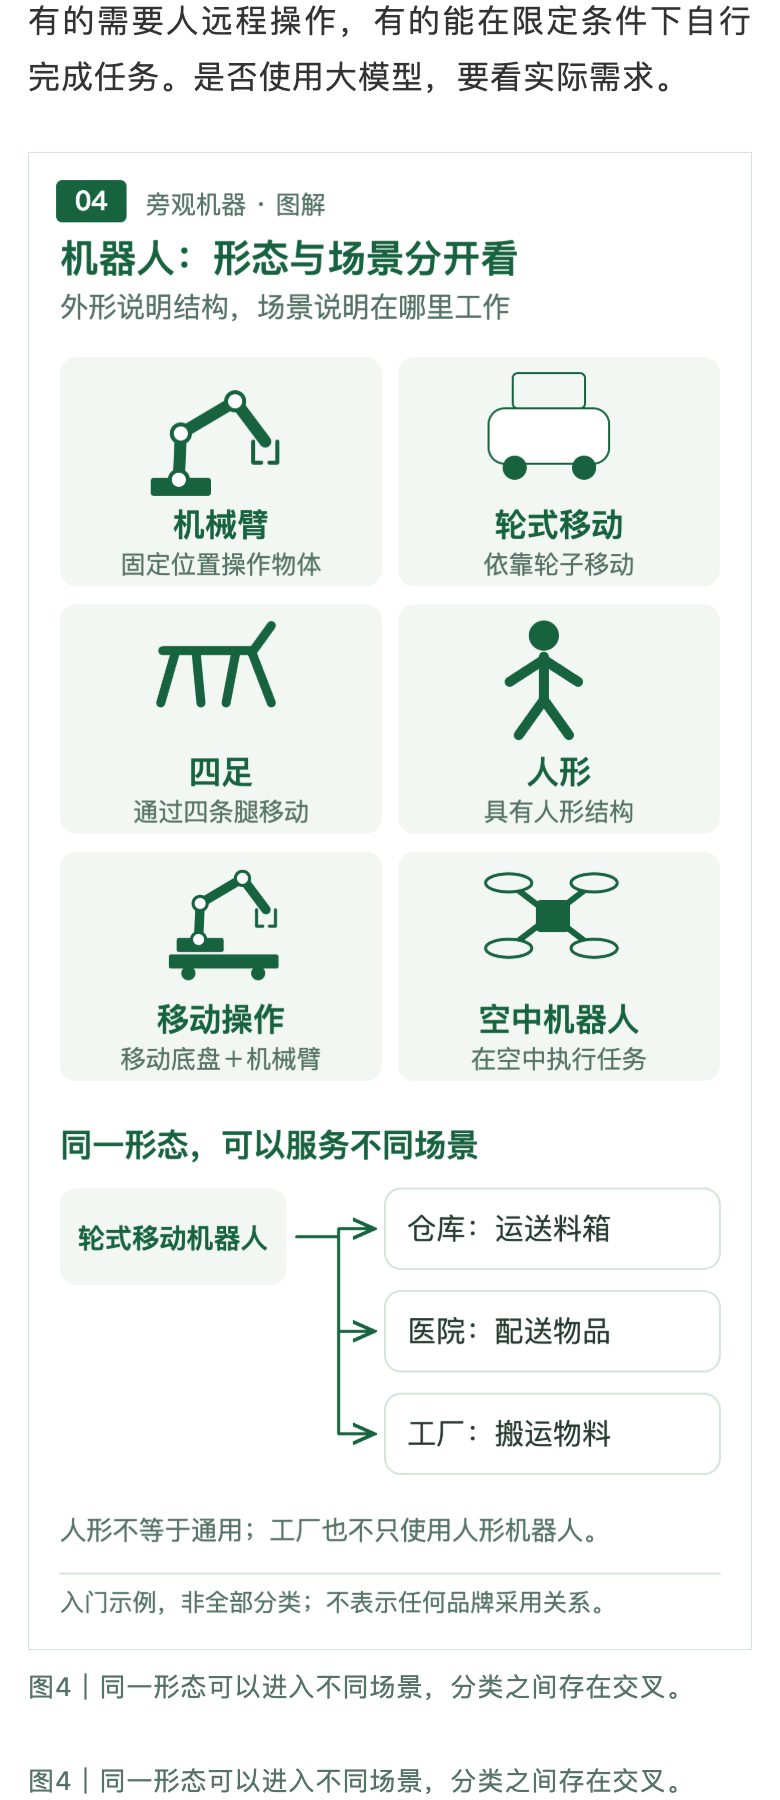
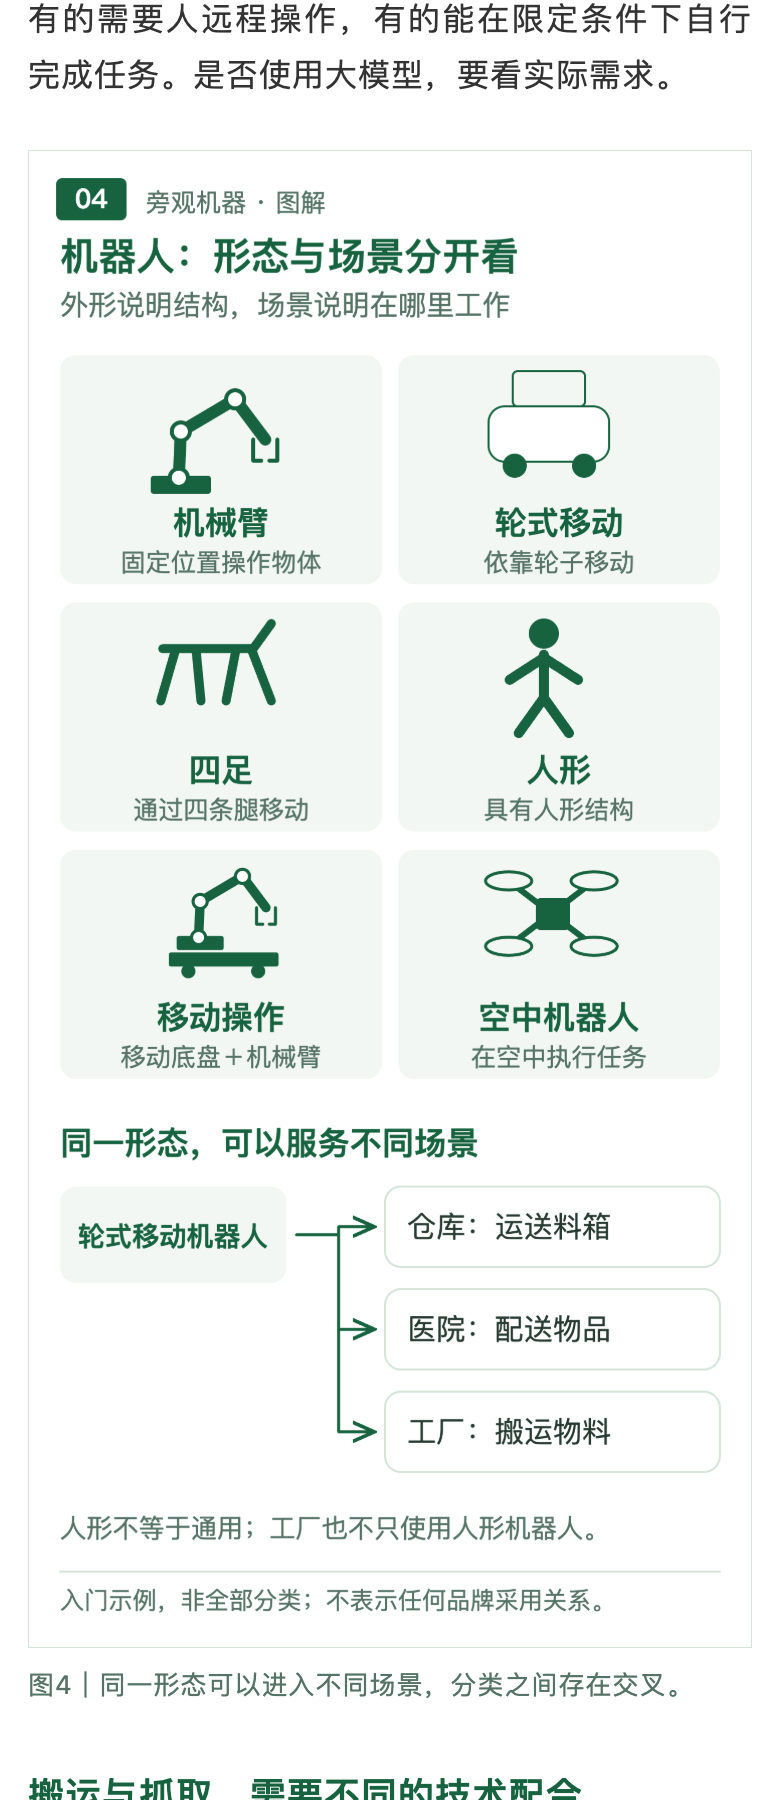
fix: remove duplicate image captions from illustrated article

diff --git a/articles/2026-09-nvidia-physical-ai/article-v3-body.html b/articles/2026-09-nvidia-physical-ai/article-v3-body.html
@@ -11,10 +11,8 @@
 <p style="margin:18px 0;line-height:1.75;color:#333333;letter-spacing:0.5px;text-align:justify;">以跟随前车减速为例，车辆首先通过摄像头、雷达等传感器获取道路信息。传感器是测量外部环境或自身状态的设备；摄像头提供图像，雷达帮助测量距离和运动，部分车型还采用激光雷达获取空间信息。</p>
 <p style="margin:18px 0;line-height:1.75;color:#333333;letter-spacing:0.5px;text-align:justify;">软件随后识别前车、估计距离与速度变化，再决定需要怎样减速。识别环境称为“感知”，安排接下来的行动称为“规划”。最后，控制系统把结果转换成车辆能够执行的指令，并根据实际运动不断调整。</p>
 <img src="assets/guide-v1/01-braking.png" alt="图1｜先看辅助减速的完整过程。" style="display:block;width:100%;max-width:100%;height:auto;margin:24px auto 8px;"/><p style="margin:8px 0 26px;font-size:13px;line-height:1.65;color:#557366;text-align:left;">图1｜先看辅助减速的完整过程。</p>
-<p style="margin:8px 0 26px;font-size:13px;line-height:1.65;color:#557366;text-align:left;">图1｜先看辅助减速的完整过程。</p>
 <p style="margin:18px 0;line-height:1.75;color:#333333;letter-spacing:0.5px;text-align:justify;">这一过程解释了为什么“用了什么芯片”只是问题的一部分。芯片承担计算，软件处理任务，车辆的机械和电子系统完成动作，任何一环都会影响结果。</p>
 <img src="assets/guide-v1/02-car-layers.png" alt="图2｜硬件、软件和车辆执行，是不同的组成部分。" style="display:block;width:100%;max-width:100%;height:auto;margin:24px auto 8px;"/><p style="margin:8px 0 26px;font-size:13px;line-height:1.65;color:#557366;text-align:left;">图2｜硬件、软件和车辆执行，是不同的组成部分。</p>
-<p style="margin:8px 0 26px;font-size:13px;line-height:1.65;color:#557366;text-align:left;">图2｜硬件、软件和车辆执行，是不同的组成部分。</p>
 <h3 style="font-size:18px;font-weight:650;color:#17633F;margin:30px 0 14px;line-height:1.6;letter-spacing:0.5px;">车企选择不同的技术组合</h3>
 <p style="margin:18px 0;line-height:1.75;color:#333333;letter-spacing:0.5px;text-align:justify;">在这套分工中，车企可以自研，也可以采购或联合开发，选择并不局限于整套购买。</p>
 <p style="margin:18px 0;line-height:1.75;color:#333333;letter-spacing:0.5px;text-align:justify;">特斯拉官方介绍了自行设计的车载AI计算机与推理芯片。问界M8采用的华为乾崑ADS，则是驾驶辅助系统方案的名称。比亚迪在2023年发布的公告中，明确介绍了扩大英伟达DRIVE Orin的使用范围。<sup style="font-size:11px;color:#557366;">[4]</sup><sup style="font-size:11px;color:#557366;">[5]</sup><sup style="font-size:11px;color:#557366;">[6]</sup></p>
@@ -33,7 +31,6 @@
 <p style="margin:18px 0;line-height:1.75;color:#333333;letter-spacing:0.5px;text-align:justify;">因此，训练效率与车内响应速度不能混为一谈。模型在服务器上表现良好，还要验证移到车载硬件后，能否在需要的时间内给出结果。</p>
 <p style="margin:18px 0;line-height:1.75;color:#333333;letter-spacing:0.5px;text-align:justify;">仿真帮助团队重复检查这些问题。它用计算机模拟交通环境和系统反应，可以改变车辆位置、光照等条件，也可以连接真实车载计算机进行测试。之后仍需要结合封闭场地和实际道路验证；模拟环境不能覆盖全部现实情况。<sup style="font-size:11px;color:#557366;">[11]</sup></p>
 <img src="assets/guide-v1/03-development.png" alt="图3｜开发不是一次完成，测试结果会带来下一轮修改。" style="display:block;width:100%;max-width:100%;height:auto;margin:24px auto 8px;"/><p style="margin:8px 0 26px;font-size:13px;line-height:1.65;color:#557366;text-align:left;">图3｜开发不是一次完成，测试结果会带来下一轮修改。</p>
-<p style="margin:8px 0 26px;font-size:13px;line-height:1.65;color:#557366;text-align:left;">图3｜开发不是一次完成，测试结果会带来下一轮修改。</p>
 <p style="margin:18px 0;line-height:1.75;color:#333333;letter-spacing:0.5px;text-align:justify;">英伟达的汽车开发产品也延伸到这一侧，包括仿真和Alpamayo等模型资源。它们可以参与研发，但模型发布不等于某款车已经搭载，更不意味着下载后就获得完整驾驶系统。<sup style="font-size:11px;color:#557366;">[12]</sup></p>
 <p style="margin:18px 0;line-height:1.75;color:#333333;letter-spacing:0.5px;text-align:justify;">软件投入使用后，还要持续管理版本、调查异常和验证更新。OTA指通过无线网络更新软件，能够改进功能，但不能让已有硬件的能力无限增长。</p>
 <p style="margin:0;"><h2 style="font-size:20px;font-weight:700;color:#17633F;margin:38px 0 18px;line-height:1.55;letter-spacing:0.5px;">机器人：先看任务，再看形态</h2></p>
@@ -43,14 +40,12 @@
 <p style="margin:18px 0;line-height:1.75;color:#333333;letter-spacing:0.5px;text-align:justify;">这些分类可以交叉。人形机器人描述外形，家务机器人描述用途；一台轮式机器人可以在医院配送，也可以在工厂搬运。“通用”讨论的是能适应多大范围的任务，跑步、跳舞则展示动作能力，都不能直接代表全部工作能力。</p>
 <p style="margin:18px 0;line-height:1.75;color:#333333;letter-spacing:0.5px;text-align:justify;">机器人也不一定高度自主。有的执行预设程序，有的需要人远程操作，有的能在限定条件下自行完成任务。是否使用大模型，要看实际需求。</p>
 <img src="assets/guide-v1/04-robot-map.png" alt="图4｜同一形态可以进入不同场景，分类之间存在交叉。" style="display:block;width:100%;max-width:100%;height:auto;margin:24px auto 8px;"/><p style="margin:8px 0 26px;font-size:13px;line-height:1.65;color:#557366;text-align:left;">图4｜同一形态可以进入不同场景，分类之间存在交叉。</p>
-<p style="margin:8px 0 26px;font-size:13px;line-height:1.65;color:#557366;text-align:left;">图4｜同一形态可以进入不同场景，分类之间存在交叉。</p>
 <h3 style="font-size:18px;font-weight:650;color:#17633F;margin:30px 0 14px;line-height:1.6;letter-spacing:0.5px;">搬运与抓取，需要不同的技术配合</h3>
 <p style="margin:18px 0;line-height:1.75;color:#333333;letter-spacing:0.5px;text-align:justify;">仓库搬运是一个直观入口。机器人要知道自己在哪里、货物在哪里、路上有没有障碍，还要接收任务并到达指定位置。极智嘉的仓储方案展示了货物处理与移动机器人的实际用途；这一场景本身并不意味着采用某一家芯片或软件。<sup style="font-size:11px;color:#557366;">[14]</sup></p>
 <p style="margin:18px 0;line-height:1.75;color:#333333;letter-spacing:0.5px;text-align:justify;">如果任务进一步变成“把零件从料箱取出，放到工作台”，系统就要增加操作能力。</p>
 <p style="margin:18px 0;line-height:1.75;color:#333333;letter-spacing:0.5px;text-align:justify;">机械臂需要关节和电机，末端安装夹爪、吸盘等接触物品的工具，这些工具称为末端执行器。摄像头帮助识别零件，关节传感器反馈位置，力或触觉传感器可以帮助判断接触情况。</p>
 <p style="margin:18px 0;line-height:1.75;color:#333333;letter-spacing:0.5px;text-align:justify;">软件据此计算可行的动作路径，再由控制系统不断调整关节运动。前者称为运动规划，后者负责让实际动作接近期望结果。模型可以参与，但传统数学方法与控制程序同样重要。</p>
 <img src="assets/guide-v1/05-pick-place.png" alt="图5｜用一次抓取看清机械、感知与控制的配合。" style="display:block;width:100%;max-width:100%;height:auto;margin:24px auto 8px;"/><p style="margin:8px 0 26px;font-size:13px;line-height:1.65;color:#557366;text-align:left;">图5｜用一次抓取看清机械、感知与控制的配合。</p>
-<p style="margin:8px 0 26px;font-size:13px;line-height:1.65;color:#557366;text-align:left;">图5｜用一次抓取看清机械、感知与控制的配合。</p>
 <p style="margin:18px 0;line-height:1.75;color:#333333;letter-spacing:0.5px;text-align:justify;">这意味着，换一颗更强的芯片不一定能解决抓取问题。夹爪是否适合物体，机械是否稳定，感知和控制是否准确，都需要一起判断。</p>
 <p style="margin:18px 0;line-height:1.75;color:#333333;letter-spacing:0.5px;text-align:justify;">整机厂商通常要把这些能力组合成产品；供应商提供部件和软件；集成商再帮助设备接入现场。工厂和仓库由此成为机器人的使用场景，而不是与机器人并列的另一种产品。</p>
 <h3 style="font-size:18px;font-weight:650;color:#17633F;margin:30px 0 14px;line-height:1.6;letter-spacing:0.5px;">英伟达既在设备里，也在开发工具里</h3>
@@ -64,7 +59,6 @@
 <p style="margin:18px 0;line-height:1.75;color:#333333;letter-spacing:0.5px;text-align:justify;">比亚迪电子的合作发生在这一层。英伟达2024年公告介绍，其使用Isaac Sim和Isaac Perceptor开发自主移动机器人。Perceptor是面向移动机器人感知的参考开发流程，帮助利用摄像头信息理解周围空间。这是工具采用记录，不应被扩大为全部工厂已完成部署。<sup style="font-size:11px;color:#557366;">[2]</sup></p>
 <p style="margin:18px 0;line-height:1.75;color:#333333;letter-spacing:0.5px;text-align:justify;">宇树的官方Isaac Lab仿真项目也提供取放等模拟任务，支持数据收集和模型验证。它说明研发如何开展，但不能用模拟任务清单推断所有量产机器人的能力，更不能据此猜测机载芯片型号。<sup style="font-size:11px;color:#557366;">[3]</sup></p>
 <img src="assets/guide-v1/06-product-roles.png" alt="图6｜把产品名称放回已经认识的系统位置。" style="display:block;width:100%;max-width:100%;height:auto;margin:24px auto 8px;"/><p style="margin:8px 0 26px;font-size:13px;line-height:1.65;color:#557366;text-align:left;">图6｜把产品名称放回已经认识的系统位置。</p>
-<p style="margin:8px 0 26px;font-size:13px;line-height:1.65;color:#557366;text-align:left;">图6｜把产品名称放回已经认识的系统位置。</p>
 <h3 style="font-size:18px;font-weight:650;color:#17633F;margin:30px 0 14px;line-height:1.6;letter-spacing:0.5px;">从实验动作到持续工作</h3>
 <p style="margin:18px 0;line-height:1.75;color:#333333;letter-spacing:0.5px;text-align:justify;">开发一项取放能力，首先要确定物品材质、重量、摆放方式和操作速度。这些条件会影响机械和软件选择。</p>
 <p style="margin:18px 0;line-height:1.75;color:#333333;letter-spacing:0.5px;text-align:justify;">零件位置固定时，预先编程可能就能完成工作；面对杂乱物体，则可能需要更复杂的识别与规划。若采用学习方法，可以让模型从人的示范中学习，这称为模仿学习；也可以让它尝试动作、根据结果调整策略，称为强化学习。</p>

diff --git a/articles/2026-09-nvidia-physical-ai/article-v3.html b/articles/2026-09-nvidia-physical-ai/article-v3.html
@@ -11,10 +11,8 @@
 <p style="margin:18px 0;line-height:1.75;color:#333333;letter-spacing:0.5px;text-align:justify;">以跟随前车减速为例，车辆首先通过摄像头、雷达等传感器获取道路信息。传感器是测量外部环境或自身状态的设备；摄像头提供图像，雷达帮助测量距离和运动，部分车型还采用激光雷达获取空间信息。</p>
 <p style="margin:18px 0;line-height:1.75;color:#333333;letter-spacing:0.5px;text-align:justify;">软件随后识别前车、估计距离与速度变化，再决定需要怎样减速。识别环境称为“感知”，安排接下来的行动称为“规划”。最后，控制系统把结果转换成车辆能够执行的指令，并根据实际运动不断调整。</p>
 <img src="assets/guide-v1/01-braking.png" alt="图1｜先看辅助减速的完整过程。" style="display:block;width:100%;max-width:100%;height:auto;margin:24px auto 8px;"/><p style="margin:8px 0 26px;font-size:13px;line-height:1.65;color:#557366;text-align:left;">图1｜先看辅助减速的完整过程。</p>
-<p style="margin:8px 0 26px;font-size:13px;line-height:1.65;color:#557366;text-align:left;">图1｜先看辅助减速的完整过程。</p>
 <p style="margin:18px 0;line-height:1.75;color:#333333;letter-spacing:0.5px;text-align:justify;">这一过程解释了为什么“用了什么芯片”只是问题的一部分。芯片承担计算，软件处理任务，车辆的机械和电子系统完成动作，任何一环都会影响结果。</p>
 <img src="assets/guide-v1/02-car-layers.png" alt="图2｜硬件、软件和车辆执行，是不同的组成部分。" style="display:block;width:100%;max-width:100%;height:auto;margin:24px auto 8px;"/><p style="margin:8px 0 26px;font-size:13px;line-height:1.65;color:#557366;text-align:left;">图2｜硬件、软件和车辆执行，是不同的组成部分。</p>
-<p style="margin:8px 0 26px;font-size:13px;line-height:1.65;color:#557366;text-align:left;">图2｜硬件、软件和车辆执行，是不同的组成部分。</p>
 <h3 style="font-size:18px;font-weight:650;color:#17633F;margin:30px 0 14px;line-height:1.6;letter-spacing:0.5px;">车企选择不同的技术组合</h3>
 <p style="margin:18px 0;line-height:1.75;color:#333333;letter-spacing:0.5px;text-align:justify;">在这套分工中，车企可以自研，也可以采购或联合开发，选择并不局限于整套购买。</p>
 <p style="margin:18px 0;line-height:1.75;color:#333333;letter-spacing:0.5px;text-align:justify;">特斯拉官方介绍了自行设计的车载AI计算机与推理芯片。问界M8采用的华为乾崑ADS，则是驾驶辅助系统方案的名称。比亚迪在2023年发布的公告中，明确介绍了扩大英伟达DRIVE Orin的使用范围。<sup style="font-size:11px;color:#557366;">[4]</sup><sup style="font-size:11px;color:#557366;">[5]</sup><sup style="font-size:11px;color:#557366;">[6]</sup></p>
@@ -33,7 +31,6 @@
 <p style="margin:18px 0;line-height:1.75;color:#333333;letter-spacing:0.5px;text-align:justify;">因此，训练效率与车内响应速度不能混为一谈。模型在服务器上表现良好，还要验证移到车载硬件后，能否在需要的时间内给出结果。</p>
 <p style="margin:18px 0;line-height:1.75;color:#333333;letter-spacing:0.5px;text-align:justify;">仿真帮助团队重复检查这些问题。它用计算机模拟交通环境和系统反应，可以改变车辆位置、光照等条件，也可以连接真实车载计算机进行测试。之后仍需要结合封闭场地和实际道路验证；模拟环境不能覆盖全部现实情况。<sup style="font-size:11px;color:#557366;">[11]</sup></p>
 <img src="assets/guide-v1/03-development.png" alt="图3｜开发不是一次完成，测试结果会带来下一轮修改。" style="display:block;width:100%;max-width:100%;height:auto;margin:24px auto 8px;"/><p style="margin:8px 0 26px;font-size:13px;line-height:1.65;color:#557366;text-align:left;">图3｜开发不是一次完成，测试结果会带来下一轮修改。</p>
-<p style="margin:8px 0 26px;font-size:13px;line-height:1.65;color:#557366;text-align:left;">图3｜开发不是一次完成，测试结果会带来下一轮修改。</p>
 <p style="margin:18px 0;line-height:1.75;color:#333333;letter-spacing:0.5px;text-align:justify;">英伟达的汽车开发产品也延伸到这一侧，包括仿真和Alpamayo等模型资源。它们可以参与研发，但模型发布不等于某款车已经搭载，更不意味着下载后就获得完整驾驶系统。<sup style="font-size:11px;color:#557366;">[12]</sup></p>
 <p style="margin:18px 0;line-height:1.75;color:#333333;letter-spacing:0.5px;text-align:justify;">软件投入使用后，还要持续管理版本、调查异常和验证更新。OTA指通过无线网络更新软件，能够改进功能，但不能让已有硬件的能力无限增长。</p>
 <p style="margin:0;"><h2 style="font-size:20px;font-weight:700;color:#17633F;margin:38px 0 18px;line-height:1.55;letter-spacing:0.5px;">机器人：先看任务，再看形态</h2></p>
@@ -43,14 +40,12 @@
 <p style="margin:18px 0;line-height:1.75;color:#333333;letter-spacing:0.5px;text-align:justify;">这些分类可以交叉。人形机器人描述外形，家务机器人描述用途；一台轮式机器人可以在医院配送，也可以在工厂搬运。“通用”讨论的是能适应多大范围的任务，跑步、跳舞则展示动作能力，都不能直接代表全部工作能力。</p>
 <p style="margin:18px 0;line-height:1.75;color:#333333;letter-spacing:0.5px;text-align:justify;">机器人也不一定高度自主。有的执行预设程序，有的需要人远程操作，有的能在限定条件下自行完成任务。是否使用大模型，要看实际需求。</p>
 <img src="assets/guide-v1/04-robot-map.png" alt="图4｜同一形态可以进入不同场景，分类之间存在交叉。" style="display:block;width:100%;max-width:100%;height:auto;margin:24px auto 8px;"/><p style="margin:8px 0 26px;font-size:13px;line-height:1.65;color:#557366;text-align:left;">图4｜同一形态可以进入不同场景，分类之间存在交叉。</p>
-<p style="margin:8px 0 26px;font-size:13px;line-height:1.65;color:#557366;text-align:left;">图4｜同一形态可以进入不同场景，分类之间存在交叉。</p>
 <h3 style="font-size:18px;font-weight:650;color:#17633F;margin:30px 0 14px;line-height:1.6;letter-spacing:0.5px;">搬运与抓取，需要不同的技术配合</h3>
 <p style="margin:18px 0;line-height:1.75;color:#333333;letter-spacing:0.5px;text-align:justify;">仓库搬运是一个直观入口。机器人要知道自己在哪里、货物在哪里、路上有没有障碍，还要接收任务并到达指定位置。极智嘉的仓储方案展示了货物处理与移动机器人的实际用途；这一场景本身并不意味着采用某一家芯片或软件。<sup style="font-size:11px;color:#557366;">[14]</sup></p>
 <p style="margin:18px 0;line-height:1.75;color:#333333;letter-spacing:0.5px;text-align:justify;">如果任务进一步变成“把零件从料箱取出，放到工作台”，系统就要增加操作能力。</p>
 <p style="margin:18px 0;line-height:1.75;color:#333333;letter-spacing:0.5px;text-align:justify;">机械臂需要关节和电机，末端安装夹爪、吸盘等接触物品的工具，这些工具称为末端执行器。摄像头帮助识别零件，关节传感器反馈位置，力或触觉传感器可以帮助判断接触情况。</p>
 <p style="margin:18px 0;line-height:1.75;color:#333333;letter-spacing:0.5px;text-align:justify;">软件据此计算可行的动作路径，再由控制系统不断调整关节运动。前者称为运动规划，后者负责让实际动作接近期望结果。模型可以参与，但传统数学方法与控制程序同样重要。</p>
 <img src="assets/guide-v1/05-pick-place.png" alt="图5｜用一次抓取看清机械、感知与控制的配合。" style="display:block;width:100%;max-width:100%;height:auto;margin:24px auto 8px;"/><p style="margin:8px 0 26px;font-size:13px;line-height:1.65;color:#557366;text-align:left;">图5｜用一次抓取看清机械、感知与控制的配合。</p>
-<p style="margin:8px 0 26px;font-size:13px;line-height:1.65;color:#557366;text-align:left;">图5｜用一次抓取看清机械、感知与控制的配合。</p>
 <p style="margin:18px 0;line-height:1.75;color:#333333;letter-spacing:0.5px;text-align:justify;">这意味着，换一颗更强的芯片不一定能解决抓取问题。夹爪是否适合物体，机械是否稳定，感知和控制是否准确，都需要一起判断。</p>
 <p style="margin:18px 0;line-height:1.75;color:#333333;letter-spacing:0.5px;text-align:justify;">整机厂商通常要把这些能力组合成产品；供应商提供部件和软件；集成商再帮助设备接入现场。工厂和仓库由此成为机器人的使用场景，而不是与机器人并列的另一种产品。</p>
 <h3 style="font-size:18px;font-weight:650;color:#17633F;margin:30px 0 14px;line-height:1.6;letter-spacing:0.5px;">英伟达既在设备里，也在开发工具里</h3>
@@ -64,7 +59,6 @@
 <p style="margin:18px 0;line-height:1.75;color:#333333;letter-spacing:0.5px;text-align:justify;">比亚迪电子的合作发生在这一层。英伟达2024年公告介绍，其使用Isaac Sim和Isaac Perceptor开发自主移动机器人。Perceptor是面向移动机器人感知的参考开发流程，帮助利用摄像头信息理解周围空间。这是工具采用记录，不应被扩大为全部工厂已完成部署。<sup style="font-size:11px;color:#557366;">[2]</sup></p>
 <p style="margin:18px 0;line-height:1.75;color:#333333;letter-spacing:0.5px;text-align:justify;">宇树的官方Isaac Lab仿真项目也提供取放等模拟任务，支持数据收集和模型验证。它说明研发如何开展，但不能用模拟任务清单推断所有量产机器人的能力，更不能据此猜测机载芯片型号。<sup style="font-size:11px;color:#557366;">[3]</sup></p>
 <img src="assets/guide-v1/06-product-roles.png" alt="图6｜把产品名称放回已经认识的系统位置。" style="display:block;width:100%;max-width:100%;height:auto;margin:24px auto 8px;"/><p style="margin:8px 0 26px;font-size:13px;line-height:1.65;color:#557366;text-align:left;">图6｜把产品名称放回已经认识的系统位置。</p>
-<p style="margin:8px 0 26px;font-size:13px;line-height:1.65;color:#557366;text-align:left;">图6｜把产品名称放回已经认识的系统位置。</p>
 <h3 style="font-size:18px;font-weight:650;color:#17633F;margin:30px 0 14px;line-height:1.6;letter-spacing:0.5px;">从实验动作到持续工作</h3>
 <p style="margin:18px 0;line-height:1.75;color:#333333;letter-spacing:0.5px;text-align:justify;">开发一项取放能力，首先要确定物品材质、重量、摆放方式和操作速度。这些条件会影响机械和软件选择。</p>
 <p style="margin:18px 0;line-height:1.75;color:#333333;letter-spacing:0.5px;text-align:justify;">零件位置固定时，预先编程可能就能完成工作；面对杂乱物体，则可能需要更复杂的识别与规划。若采用学习方法，可以让模型从人的示范中学习，这称为模仿学习；也可以让它尝试动作、根据结果调整策略，称为强化学习。</p>

diff --git a/articles/2026-09-nvidia-physical-ai/assets/guide-v1/build.py b/articles/2026-09-nvidia-physical-ai/assets/guide-v1/build.py
@@ -106,7 +106,7 @@ s=s.replace('## 写作提纲','## 写作提纲（归档，不进入HTML正文）
 s=s.replace('这些是功能', '这些是功能')
 anchors=[('这一过程解释了为什么', '01-braking','图1｜先看辅助减速的完整过程。'),('#### 车企选择不同的技术组合','02-car-layers','图2｜硬件、软件和车辆执行，是不同的组成部分。'),('英伟达的汽车开发产品也延伸到这一侧','03-development','图3｜开发不是一次完成，测试结果会带来下一轮修改。'),('#### 搬运与抓取，需要不同的技术配合','04-robot-map','图4｜同一形态可以进入不同场景，分类之间存在交叉。'),('这意味着，换一颗更强的芯片','05-pick-place','图5｜用一次抓取看清机械、感知与控制的配合。'),('#### 从实验动作到持续工作','06-product-roles','图6｜把产品名称放回已经认识的系统位置。')]
 for anchor,name,caption in anchors:
- s=s.replace(anchor,f'![{caption}](assets/guide-v1/{name}.png)\n\n{caption}\n\n'+anchor,1)
+ s=s.replace(anchor,f'![{caption}](assets/guide-v1/{name}.png)\n\n'+anchor,1)
 (A/'article-v3.md').write_text(s)
 # Use established Markdown inline renderer, override superseded heading decoration.
 root=A.parent.parent
